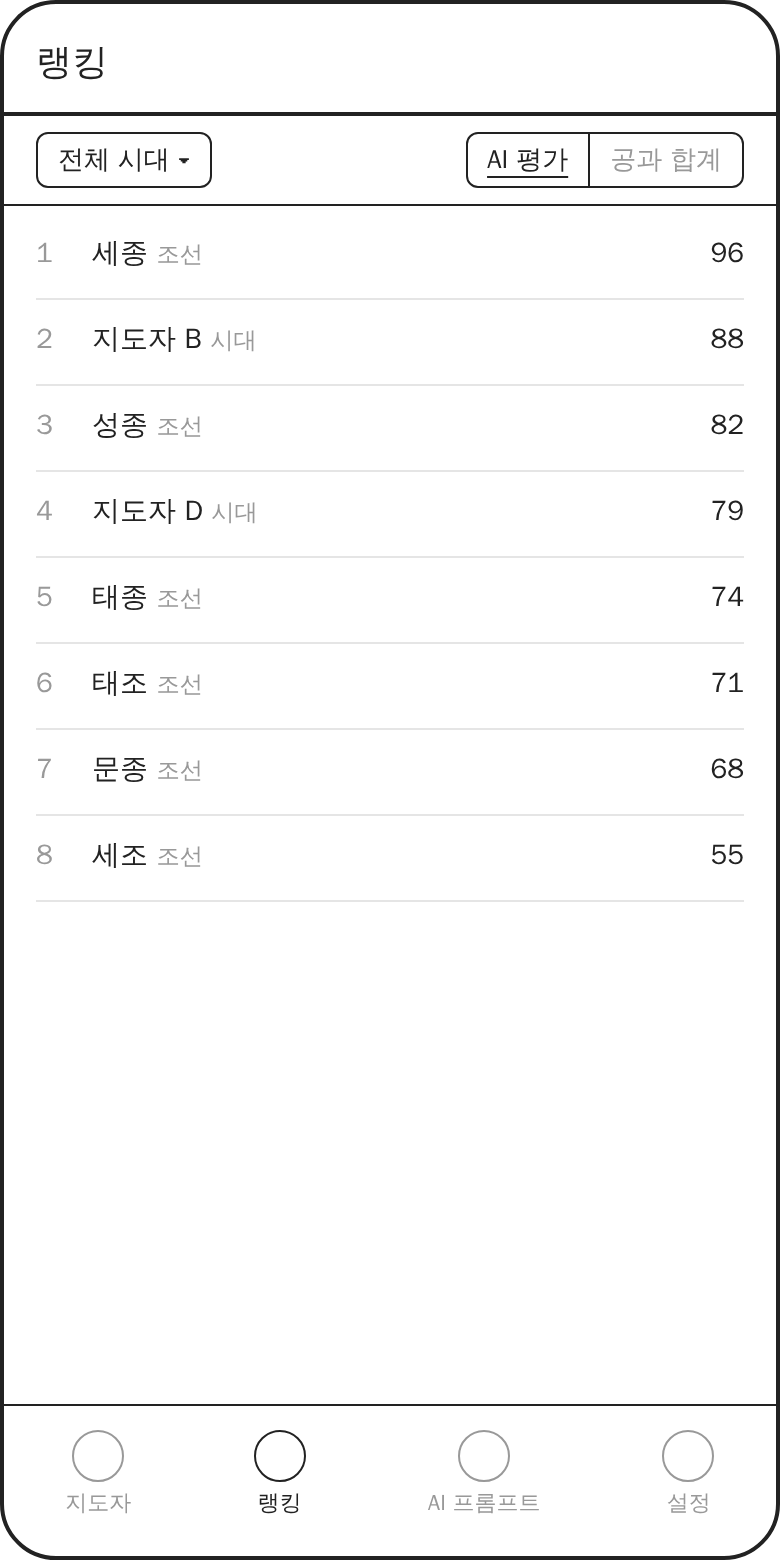
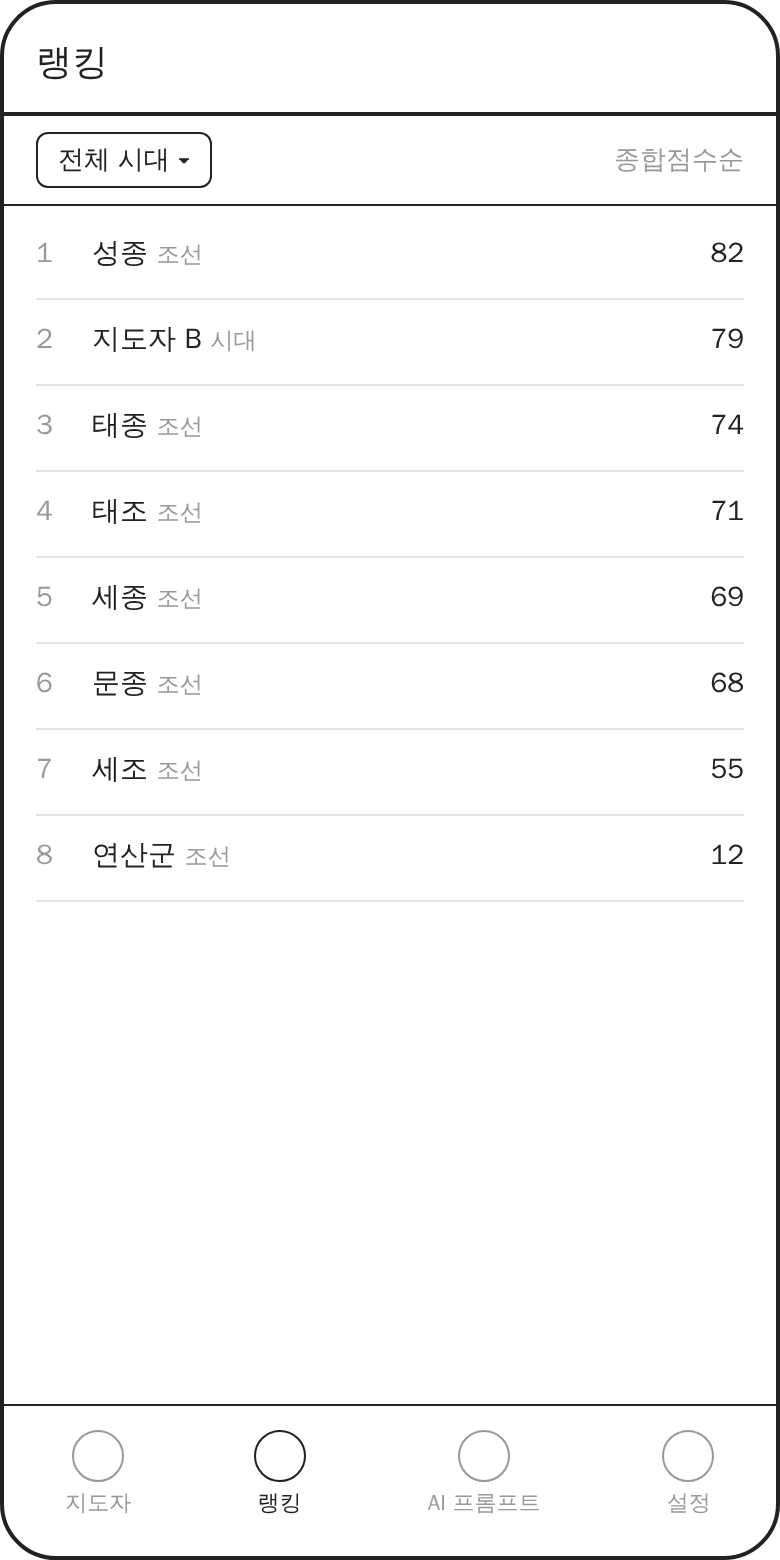
Replace AI overall score with formula-based total score
Claude-Session: https://claude.ai/code/session_018d411kTBLTazJuieQGaakd

diff --git a/mockups/mobile.html b/mockups/mobile.html
@@ -79,7 +79,7 @@
   <div class="track">
     <div class="card">
       <div class="name">세종</div>
-      <div class="ai">AI 평가 96</div>
+      <div class="ai">종합 69</div>
       <div class="cols">
         <div class="col">
           <div class="head">공 +28</div>
@@ -110,10 +110,10 @@
     <div class="seg"><span class="on">시간순</span><span>점수순</span></div>
   </div>
   <div class="body" style="gap:0;padding-top:4px">
-    <div class="li muted" style="font-size:12px"><span class="sp">재위</span><span style="width:44px">공</span><span style="width:44px">과</span><span style="width:30px">AI</span></div>
+    <div class="li muted" style="font-size:12px"><span class="sp">재위</span><span style="width:44px">공</span><span style="width:44px">과</span><span style="width:30px">종합</span></div>
     <div class="li"><span class="sp">태조 <small class="muted">1392–</small></span><span style="width:44px">+20</span><span style="width:44px">−8</span><span style="width:30px">71</span></div>
     <div class="li"><span class="sp">태종 <small class="muted">1400–</small></span><span style="width:44px">+24</span><span style="width:44px">−12</span><span style="width:30px">74</span></div>
-    <div class="li"><span class="sp">세종 <small class="muted">1418–</small></span><span style="width:44px">+28</span><span style="width:44px">−5</span><span style="width:30px">96</span></div>
+    <div class="li"><span class="sp">세종 <small class="muted">1418–</small></span><span style="width:44px">+28</span><span style="width:44px">−5</span><span style="width:30px">69</span></div>
     <div class="li"><span class="sp">문종 <small class="muted">1450–</small></span><span style="width:44px">+9</span><span style="width:44px">−1</span><span style="width:30px">68</span></div>
     <div class="li"><span class="sp">세조 <small class="muted">1455–</small></span><span style="width:44px">+18</span><span style="width:44px">−15</span><span style="width:30px">55</span></div>
     <div class="li"><span class="sp">성종 <small class="muted">1469–</small></span><span style="width:44px">+19</span><span style="width:44px">−4</span><span style="width:30px">82</span></div>
@@ -127,17 +127,17 @@
   <div class="tools">
     <div class="box" style="padding:4px 10px">전체 시대 ▾</div>
     <span class="sp"></span>
-    <div class="seg"><span class="on">AI 평가</span><span>공과 합계</span></div>
+    <span class="muted">종합점수순</span>
   </div>
   <div class="body" style="gap:0;padding-top:4px">
-    <div class="li"><span class="n">1</span><span class="sp">세종 <small class="muted">조선</small></span><span>96</span></div>
-    <div class="li"><span class="n">2</span><span class="sp">지도자 B <small class="muted">시대</small></span><span>88</span></div>
-    <div class="li"><span class="n">3</span><span class="sp">성종 <small class="muted">조선</small></span><span>82</span></div>
-    <div class="li"><span class="n">4</span><span class="sp">지도자 D <small class="muted">시대</small></span><span>79</span></div>
-    <div class="li"><span class="n">5</span><span class="sp">태종 <small class="muted">조선</small></span><span>74</span></div>
-    <div class="li"><span class="n">6</span><span class="sp">태조 <small class="muted">조선</small></span><span>71</span></div>
-    <div class="li"><span class="n">7</span><span class="sp">문종 <small class="muted">조선</small></span><span>68</span></div>
-    <div class="li"><span class="n">8</span><span class="sp">세조 <small class="muted">조선</small></span><span>55</span></div>
+    <div class="li"><span class="n">1</span><span class="sp">성종 <small class="muted">조선</small></span><span>82</span></div>
+    <div class="li"><span class="n">2</span><span class="sp">지도자 B <small class="muted">시대</small></span><span>79</span></div>
+    <div class="li"><span class="n">3</span><span class="sp">태종 <small class="muted">조선</small></span><span>74</span></div>
+    <div class="li"><span class="n">4</span><span class="sp">태조 <small class="muted">조선</small></span><span>71</span></div>
+    <div class="li"><span class="n">5</span><span class="sp">세종 <small class="muted">조선</small></span><span>69</span></div>
+    <div class="li"><span class="n">6</span><span class="sp">문종 <small class="muted">조선</small></span><span>68</span></div>
+    <div class="li"><span class="n">7</span><span class="sp">세조 <small class="muted">조선</small></span><span>55</span></div>
+    <div class="li"><span class="n">8</span><span class="sp">연산군 <small class="muted">조선</small></span><span>12</span></div>
   </div>
 </div>
 
@@ -154,7 +154,7 @@
     <div class="box ph">기준 직접 입력</div>
     <div class="btn">프롬프트 복사</div>
     <div class="box ph" style="height:110px">AI 응답 붙여넣기</div>
-    <div class="row" style="padding-top:4px"><span class="sp muted">결과 (저장 안 됨)</span><span style="font-size:22px">96 → 91</span></div>
+    <div class="row" style="padding-top:4px"><span class="sp muted">결과 (저장 안 됨)</span><span style="font-size:22px">69 → 62</span></div>
     <div class="row muted" style="font-size:13px"><span class="sp">공 +28 → +25</span><span>과 −5 → −9</span></div>
   </div>
 </div>

diff --git a/SPEC.md b/SPEC.md
@@ -13,7 +13,7 @@
 | 시트 쓰기 | 서비스 계정으로 앱이 직접 기록 |
 | 관리자 인증 | 비밀번호 1개 (환경변수) |
 | 사건 점수 | -10 ~ +10 |
-| 종합점수 | 사건 점수 합계 + AI 종합평가(0~100) 둘 다 표시 |
+| 종합점수 | 사건 점수 평균을 0~100으로 환산: `round((평균 + 10) × 5)` — AI 별도 판단 없음, 사건 수 영향 없음 |
 | AI 연동 | API 호출 없음 — 앱이 프롬프트 생성 → 사용자가 외부 AI 채팅에 붙여넣기 → JSON 응답을 앱에 붙여넣기 |
 | 사용자 맞춤 평가 | 화면에만 표시, 저장 안 함 |
 | 랭킹 | 기본 점수(관리자 채점) 기준 |
@@ -24,15 +24,15 @@
 
 1. **지도자** — 상단 시대 탭(좌우 스와이프)
    - 보기 전환: 카드 / 리스트, 정렬: 시간순 / 점수순
-   - 카드 보기: 지도자 카드 좌우 스와이프. 이름, 그 밑에 AI 평가, 공(+합계) / 과(−합계) 두 칸에 사건 목록
-   - 리스트 보기: 해당 시대 지도자 목록 (공, 과, AI 평가)
-2. **랭킹** — 시대 필터, AI 평가 / 공과 합계 정렬
+   - 카드 보기: 지도자 카드 좌우 스와이프. 이름, 그 밑에 종합점수, 공(+합계) / 과(−합계) 두 칸에 사건 목록
+   - 리스트 보기: 해당 시대 지도자 목록 (공, 과, 종합)
+2. **랭킹** — 시대 필터, 종합점수순
 3. **AI 프롬프트** — 지도자 선택, 기준 칩(가중치) + 자유 입력 → 프롬프트 복사 → 응답 붙여넣기 → 기본 대비 결과 (저장 안 함)
 4. **설정** — 관리자 비밀번호 → 지도자 선택 → 채점 프롬프트 복사 → 응답 붙여넣기 → 시트에 저장
 
 ## 시트 구조 (초안)
 
-- `leaders`: id, 이름, 국가, 시대, 재위/재임 기간, 점수합계, AI종합평가, 총평, 채점일
+- `leaders`: id, 이름, 국가, 시대, 재위/재임 기간, 공합계, 과합계, 종합점수, 총평, 채점일
 - `events`: id, leader_id, 연도, 제목, 설명, 분야, 점수(-10~10), 점수근거
 
 ## AI 응답 JSON 형식 (초안)
@@ -40,7 +40,6 @@
 ```json
 {
   "events": [{ "id": "e1", "score": 7, "reason": "..." }],
-  "overall": 82,
   "summary": "..."
 }
 ```
